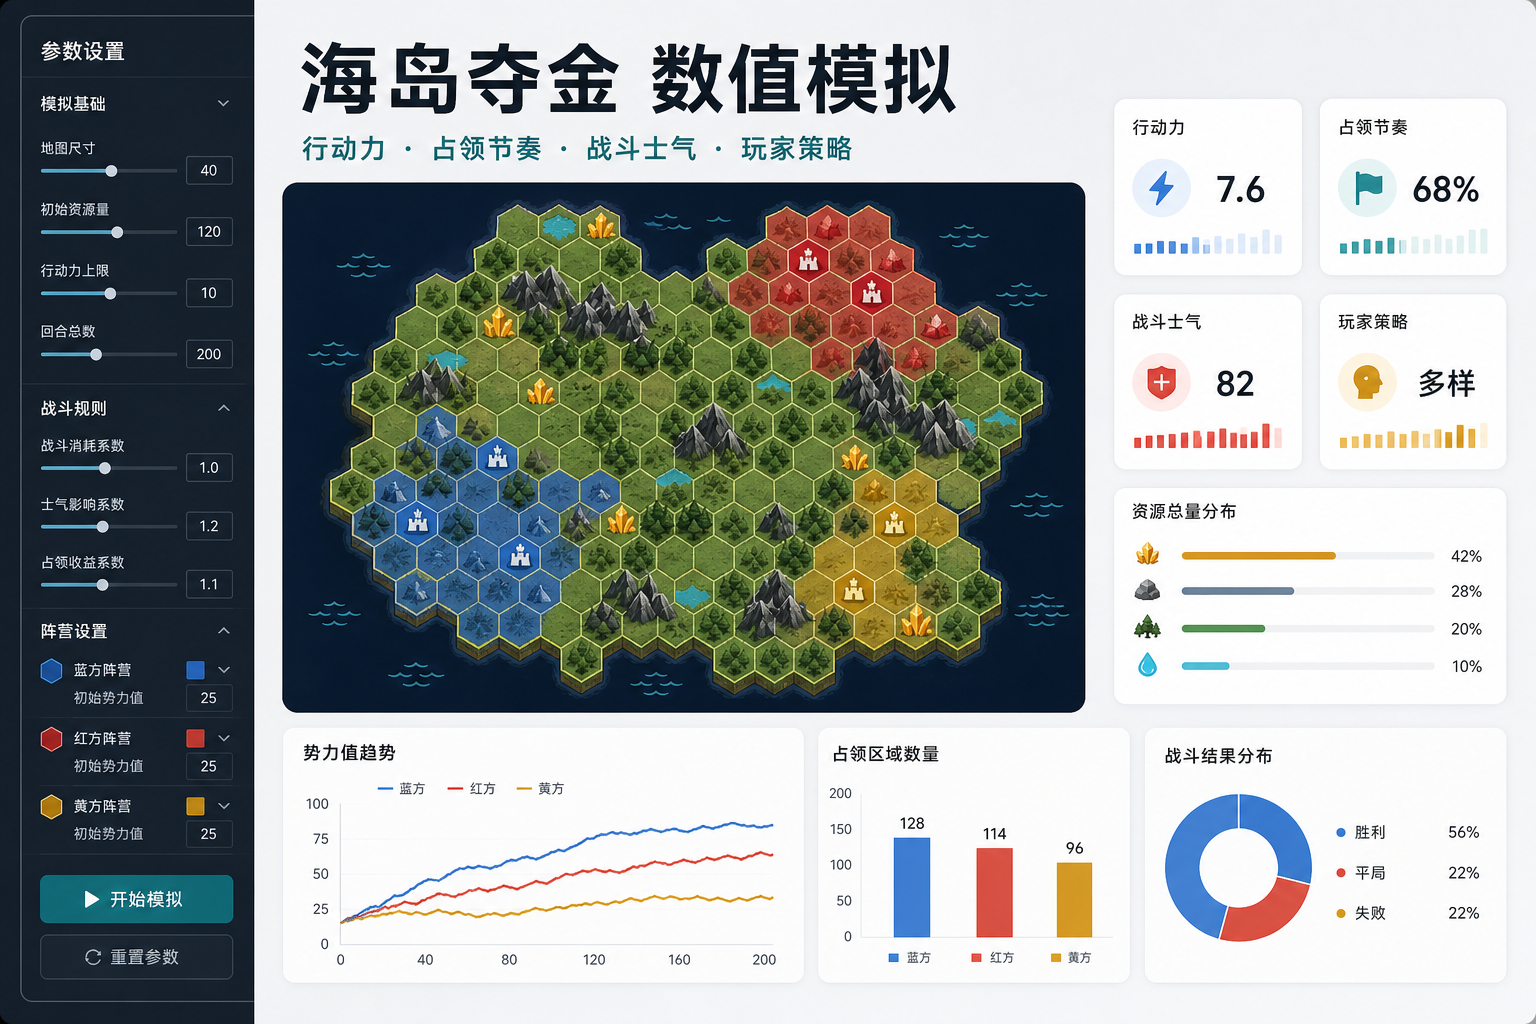
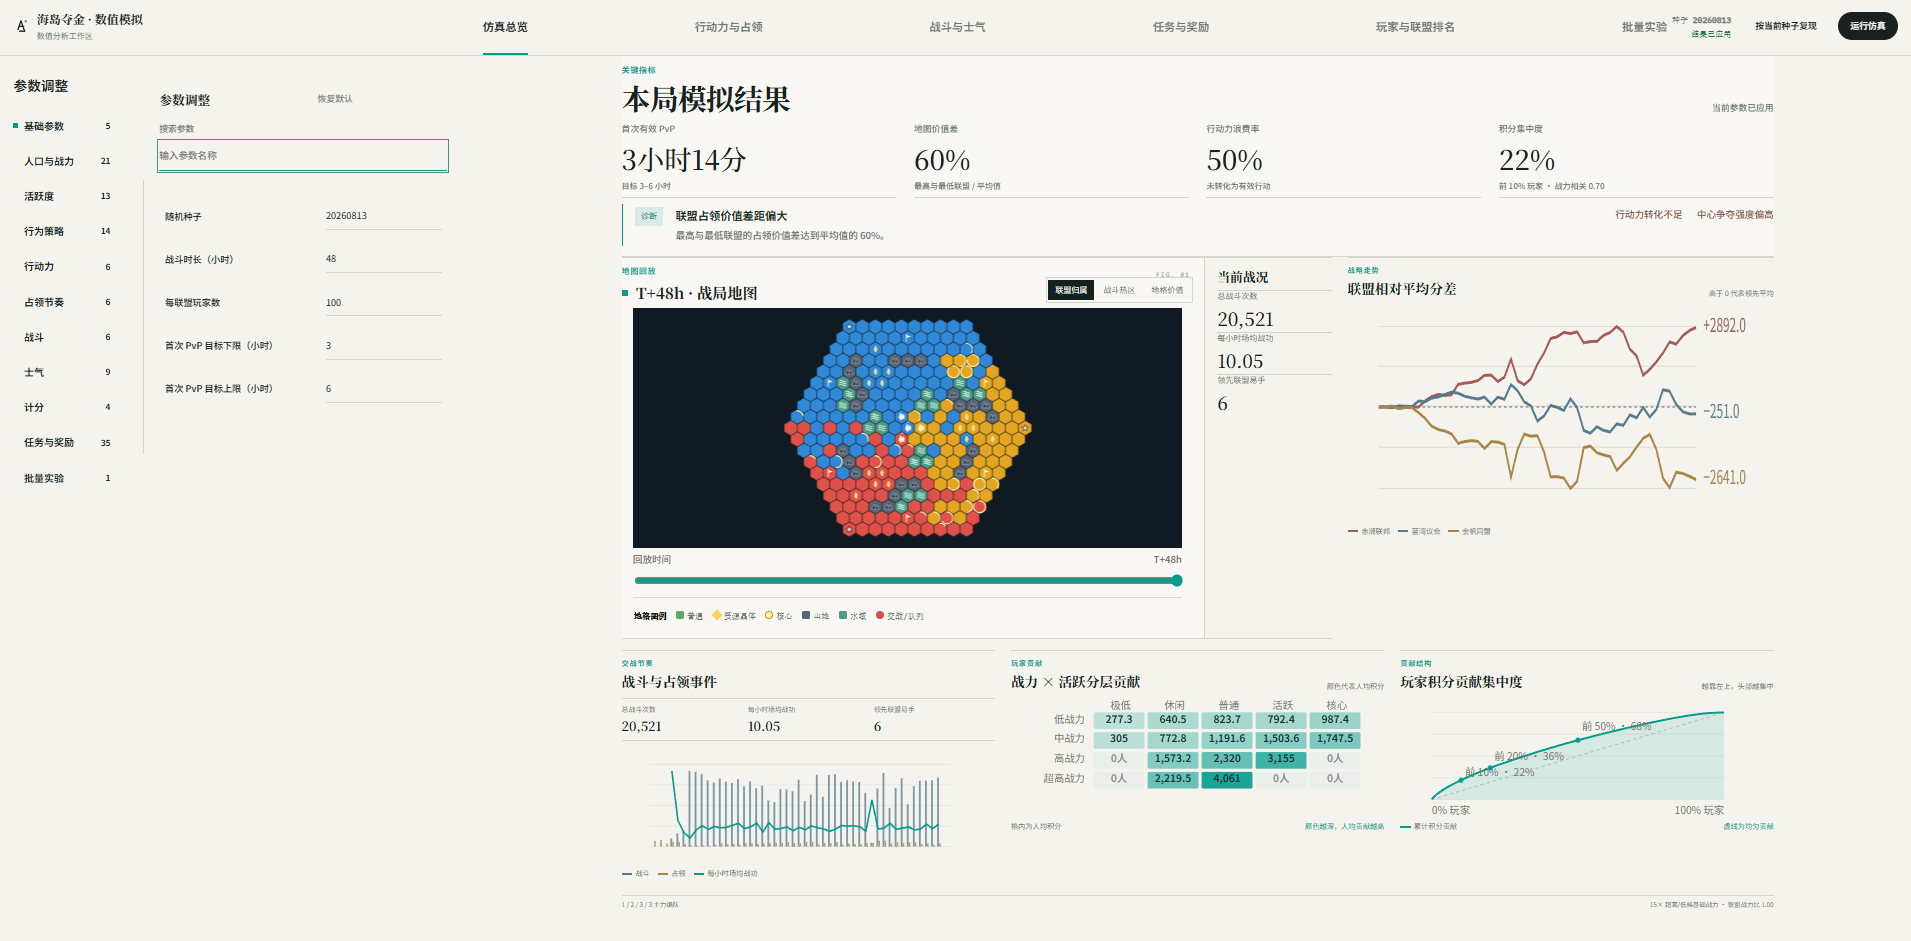
docs: refresh simulator showcase images

diff --git a/docs/superpowers/plans/2026-08-24-readme-current-ui-screenshots.md b/docs/superpowers/plans/2026-08-24-readme-current-ui-screenshots.md
@@ -1,0 +1,134 @@
+# README Current UI Screenshots Implementation Plan
+
+> **For agentic workers:** REQUIRED SUB-SKILL: Use superpowers:subagent-driven-development (recommended) or superpowers:executing-plans to implement this plan task-by-task. Steps use checkbox (`- [ ]`) syntax for tracking.
+
+**Goal:** Replace the obsolete concept artwork with two real screenshots of the current simulator and publish them on GitHub.
+
+**Architecture:** Keep `public/og-v3.png` as the canonical overview and social-sharing image so existing metadata remains valid. Add one focused ranking/score-ledger image and reference both assets from the README without changing application code.
+
+**Tech Stack:** PNG assets, Markdown, Git, GitHub Pages.
+
+## Global Constraints
+
+- Use the supplied real simulator screenshots without redrawing the interface.
+- The overview image must exclude browser chrome and show the finished simulation state.
+- The ranking image must demonstrate player ranking and individual score-event history.
+- Do not expose local paths, accounts, internal documents, credentials, or real player data.
+- Do not change simulation logic, parameters, UI layout, or deployment configuration.
+
+---
+
+### Task 1: Replace Public Showcase Assets
+
+**Files:**
+- Replace: `public/og-v3.png`
+- Create: `public/player-ranking-score-history.png`
+
+**Interfaces:**
[1 lines of base64/hex data omitted]
+- Produces: stable public image paths used by README and metadata
+
+- [ ] **Step 1: Record the current asset state**
+
+Run:
+
+```powershell
+Get-FileHash public/og-v3.png -Algorithm SHA256
+Test-Path public/player-ranking-score-history.png
+```
+
+Expected: the overview hash is not the supplied overview hash and the ranking image is absent.
+
+- [ ] **Step 2: Copy the approved screenshots**
+
+Copy the first supplied PNG byte-for-byte to `public/og-v3.png` and the second to `public/player-ranking-score-history.png`.
+
+- [ ] **Step 3: Verify exact asset identity and dimensions**
+
+Run a PNG inspection that asserts:
+
+```text
+public/og-v3.png = 1911x941, SHA-256 F79F514D76DEA400CB7F587665C688926AB3A1B5D8B203E9AC28A2D5E10C134E
+public/player-ranking-score-history.png = 1880x935, SHA-256 5B35F8897662A1D7869574C77D5B3478D4457FB971B2D550BE176528829D3895
+```
+
+- [ ] **Step 4: Commit the asset update with the README change in Task 2**
+
+Do not create a partial asset-only commit; the two images and their README references are one deliverable.
+
+### Task 2: Present Both Screenshots in README
+
+**Files:**
+- Modify: `README.md`
+
+**Interfaces:**
+- Consumes: `public/og-v3.png` and `public/player-ranking-score-history.png`
+- Produces: a GitHub landing page showing both current simulator views
+
+- [ ] **Step 1: Verify the second screenshot is not referenced yet**
+
+Run:
+
+```powershell
+rg -n "player-ranking-score-history|玩家排名与积分流水" README.md
+```
+
+Expected: no match.
+
+- [ ] **Step 2: Add concise screenshot labels and references**
+
+Keep the live link first, then render:
+
+```markdown
+### 仿真总览
+
+![海岛夺金数值模拟器仿真总览](public/og-v3.png)
+
+### 玩家排名与积分流水
+
+![海岛夺金数值模拟器玩家排名与积分流水](public/player-ranking-score-history.png)
+```
+
+- [ ] **Step 3: Verify README and privacy scope**
+
+Run:
+
+```powershell
+rg -n "og-v3.png|player-ranking-score-history.png" README.md
+rg -n "credential|authorization|bearer|private[_-]?key|access[_-]?token|client[_-]?secret" README.md public -i -g "*.md" -g "*.txt"
+```
+
+Expected: both image references are present and the sensitive-pattern scan has no new match.
+
+- [ ] **Step 4: Run repository verification**
+
+Run:
+
+```powershell
+npm test -- --maxWorkers=1 --testTimeout=15000
+npm run lint
+npm run build:pages
+npm run verify:pages
+```
+
+Expected: all commands pass and the built site contains the updated `og-v3.png`.
+
+- [ ] **Step 5: Commit and push the exact allowlist**
+
+Stage only:
+
+```text
+README.md
+public/og-v3.png
+public/player-ranking-score-history.png
+docs/superpowers/specs/2026-08-24-readme-current-ui-screenshot-design.md
+docs/superpowers/plans/2026-08-24-readme-current-ui-screenshots.md
+```
+
+Commit message:
+
+```text
+docs: refresh simulator showcase images
+```
+
+Push the current branch to its configured GitHub remote, then verify both images render from the public repository and the GitHub Pages URL remains accessible.

diff --git a/docs/superpowers/specs/2026-08-24-readme-current-ui-screenshot-design.md b/docs/superpowers/specs/2026-08-24-readme-current-ui-screenshot-design.md
@@ -1,0 +1,27 @@
+# README 当前界面截图设计
+
+## 目标
+
+用当前可运行的数值模拟器真实界面替换 README 中过时的概念图，使作品展示与实际产品一致。
+
+## 画面
+
+- 使用当前版本“仿真总览”页面，不重新绘制概念界面。
+- 截图约为 1600 × 900，排除浏览器地址栏、桌面和其他窗口。
+- 使用一局已经完成的仿真结果，回放停在终局。
+- 参数抽屉保持关闭，主体展示地图、关键指标与三张核心图表。
+- 保留模拟器公开展示所需的随机种子和虚拟联盟名称，不包含本地路径、账号、内部文档或项目资料。
+
+## 文件范围
+
+- 替换 `public/og-v3.png`。
+- README 继续引用同一路径，无需修改正文。
+- 网页分享元数据继续复用同一张图片。
+- 不修改模拟逻辑、参数、界面布局或部署配置。
+
+## 验收
+
+- 图片是当前真实页面，而非旧概念稿。
+- 地图和图表均清晰可辨，页面无抽屉遮挡。
+- 图片尺寸适合 GitHub README 与社交分享预览。
+- 仓库中不新增敏感信息。

diff --git a/README.md b/README.md
@@ -2,7 +2,13 @@
 
 [Open the live simulator](https://zlllllll395487.github.io/Island-Gold-Rush-Numerical-simulator/)
 
-![海岛夺金数值模拟界面](public/og-v3.png)
+### 仿真总览
+
+![海岛夺金数值模拟器仿真总览](public/og-v3.png)
+
+### 玩家排名与积分流水
+
+![海岛夺金数值模拟器玩家排名与积分流水](public/player-ranking-score-history.png)
 
 一个可交互、可重复运行的网页数值模拟器，用于观察多人联盟玩法中，行动力、占领时长、战力分布、活跃度、士气、任务奖励与积分规则之间的联动影响。
 
